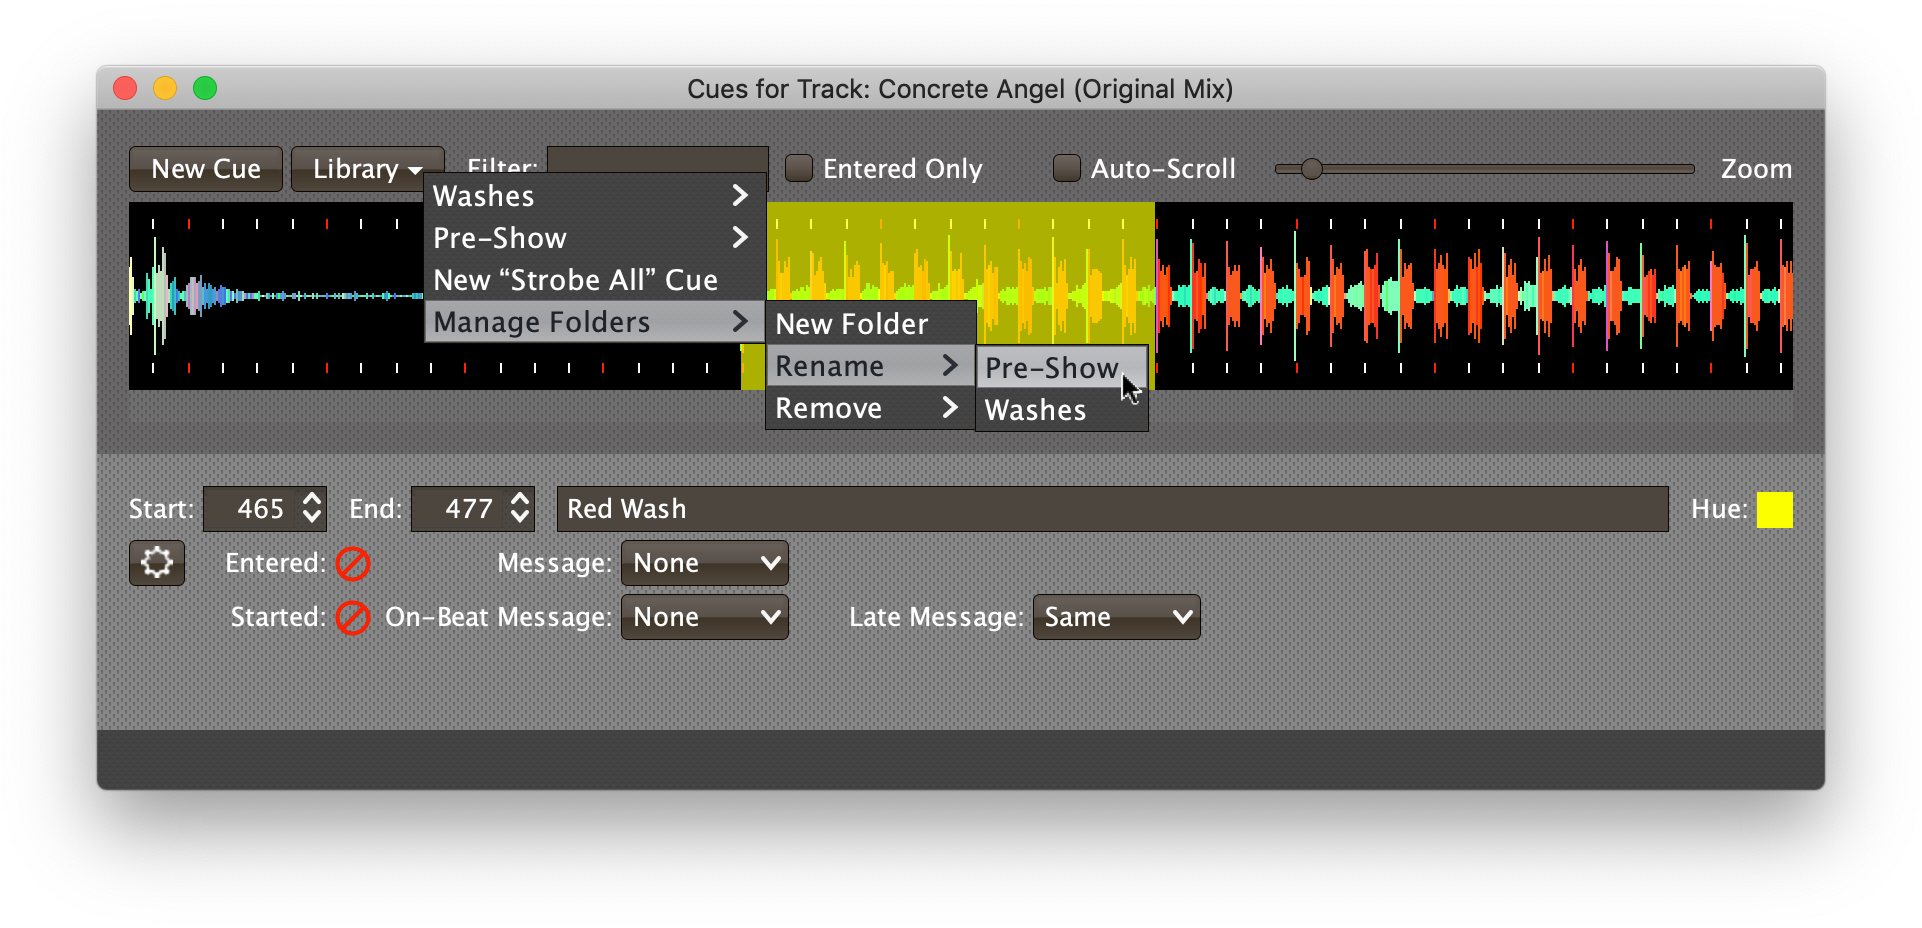
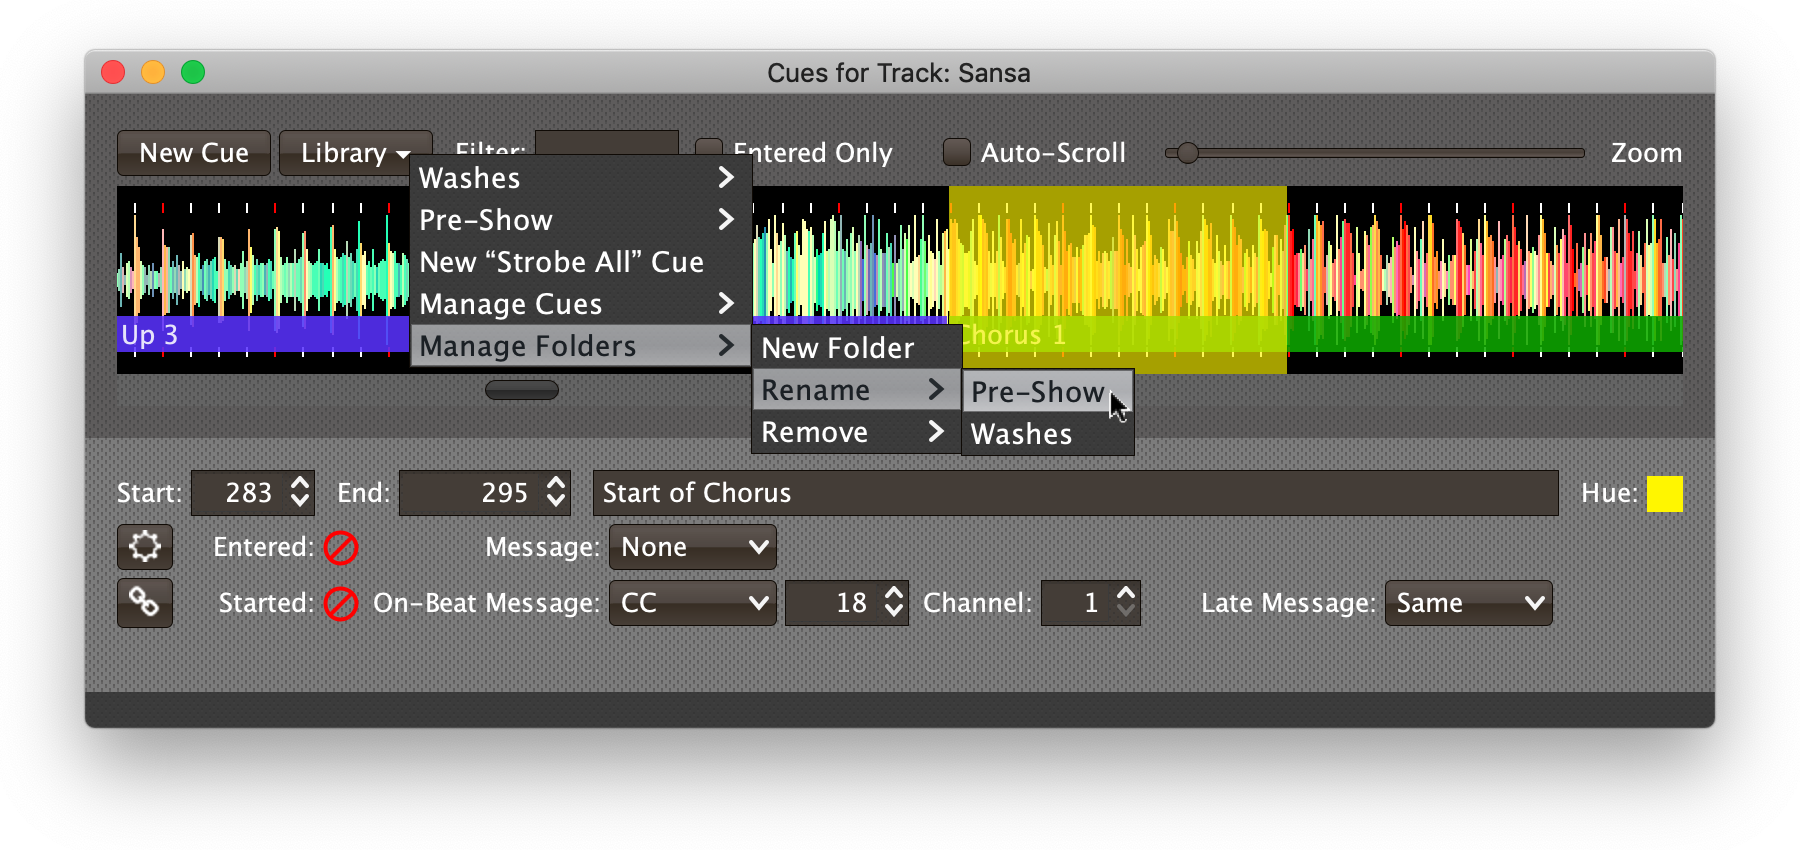
Updated user guide for linked cues, closes #120

diff --git a/CHANGELOG.md b/CHANGELOG.md
@@ -14,7 +14,16 @@ This change log follows the conventions of
   columns](https://blt-guide.deepsymmetry.org/beat-link-trigger/players#change-num-columns)
   the Player Status window uses if you don't like the defaults.]
 - Song structure (phrase analysis) is now displayed on waveforms when
-  it is available.
+  it is available, both in Player Status and in Show windows, where it
+  can be helpful in deciding where to position cues.
+- Show cues can now be linked to library cues, which means whenever
+  one of the linked cues is edited, the library cue and any other cues
+  that are linked to the same library cue are instantly updated to
+  match. There is a new link button which appears on cue rows once the
+  first library cue has been created to manage this, and the Library
+  dropdown menu has several new features. It's probably worth your
+  while to reread the Cue Library section (under Shows) in the user
+  guide.
 - The Carabiner Connection window also handles Player 5 and Player 6
   now.
 
